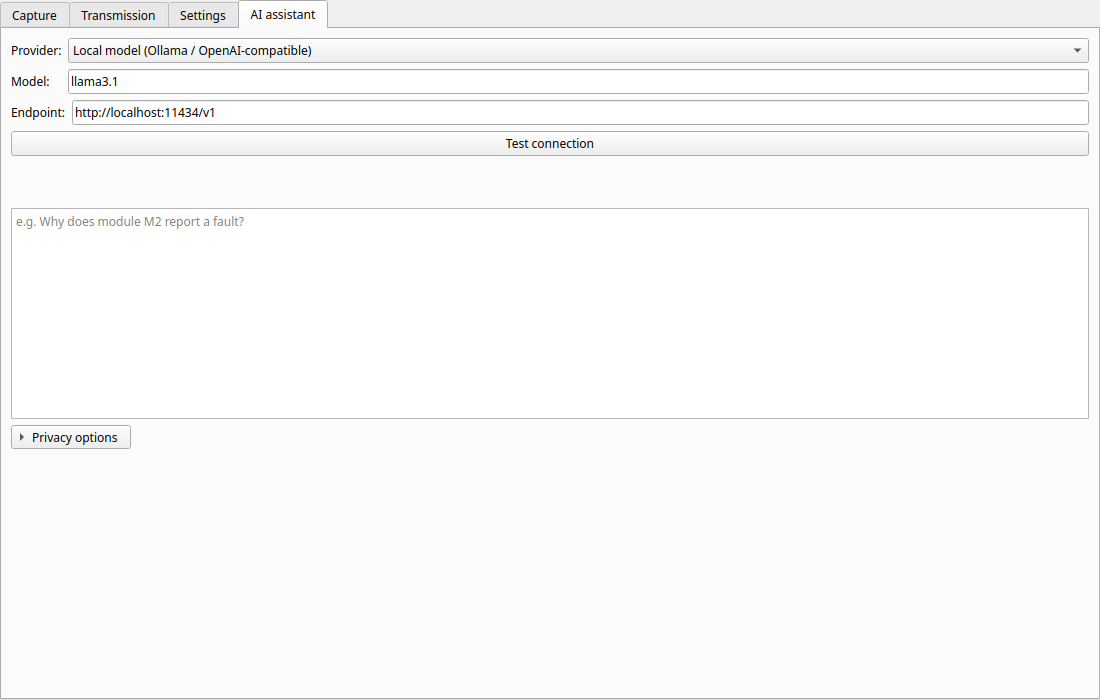
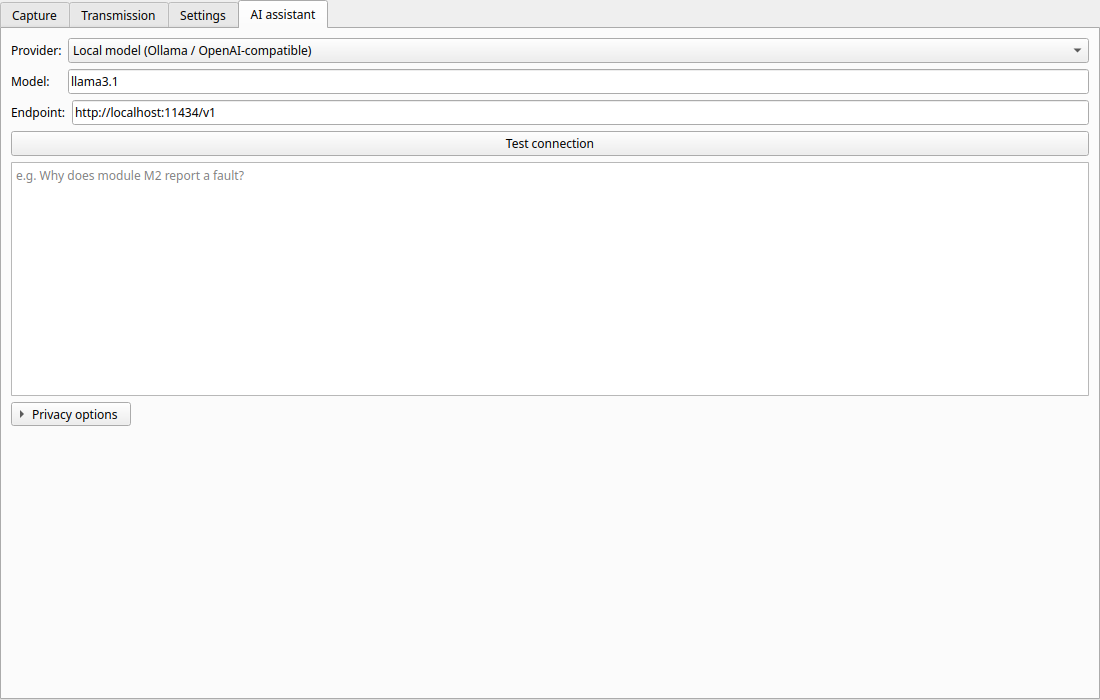
fix(ui): hide empty status and waiting labels on the AI tab
An empty message label no longer reserves vertical space: it appears
only while it has text to show.

Changed region(s): [[0.0, 0.57, 0.1236, 0.66], [0.0, 0.3, 0.2164, 0.33], [0.0, 0.24, 0.2164, 0.27]]

diff --git a/src/busscope/ai_assistant_ui.py b/src/busscope/ai_assistant_ui.py
@@ -99,6 +99,25 @@ def ask_confirmation(parent: QWidget, message: str) -> bool:
     return answer == QMessageBox.StandardButton.Yes
 
 
+class _MessageLabel(QLabel):
+    """A label that takes no room while it has nothing to say."""
+
+    def __init__(self) -> None:
+        super().__init__()
+        self.setWordWrap(True)
+        self.setVisible(False)
+
+    def setText(self, text: str) -> None:  # noqa: N802  # Qt override
+        """Show the label only when the text is not empty."""
+        super().setText(text)
+        self.setVisible(bool(text))
+
+    def clear(self) -> None:
+        """Clearing hides the label."""
+        super().clear()
+        self.setVisible(False)
+
+
 class AssistantWidget(QWidget):
     """Provider setup, payload preview and question/answer for one capture."""
 
@@ -158,8 +177,7 @@ class AssistantWidget(QWidget):
         key_layout.addWidget(self.key_state)
 
         self.test_button = QPushButton("Test connection")
-        self.status_label = QLabel()
-        self.status_label.setWordWrap(True)
+        self.status_label = _MessageLabel()
 
         self.question_input = QPlainTextEdit()
         self.question_input.setAccessibleName("Diagnosis question")
@@ -202,7 +220,7 @@ class AssistantWidget(QWidget):
         diagnosis_layout.addWidget(self.destination_label)
         diagnosis_layout.addWidget(self.send_button)
         diagnosis_layout.addWidget(self.answer)
-        self.waiting_label = QLabel()
+        self.waiting_label = _MessageLabel()
 
         form = QFormLayout()
         form.addRow("Provider:", self.provider_input)

diff --git a/tests/test_ai_assistant_ui.py b/tests/test_ai_assistant_ui.py
@@ -566,3 +566,18 @@ def test_reopening_the_tab_on_the_same_capture_keeps_the_answer(
     widget.send()
     widget.refresh()
     assert widget.answer.toPlainText() == "kept" and not widget.answer.isHidden()
+
+
+def test_empty_messages_take_no_room(qt_application: QApplication, tmp_path: Path) -> None:
+    del qt_application
+    harness = Harness(tmp_path, FakeKeys({"anthropic": ANTHROPIC_KEY}), FakeProvider())
+    harness.frames.append(frame())
+    widget = harness.widget()
+    assert widget.status_label.isHidden() and widget.waiting_label.isHidden()
+    widget.test_connection()
+    assert not widget.status_label.isHidden()
+    select(widget, "local")
+    assert widget.status_label.isHidden()
+    harness.frames.clear()
+    widget.refresh()
+    assert not widget.waiting_label.isHidden()
